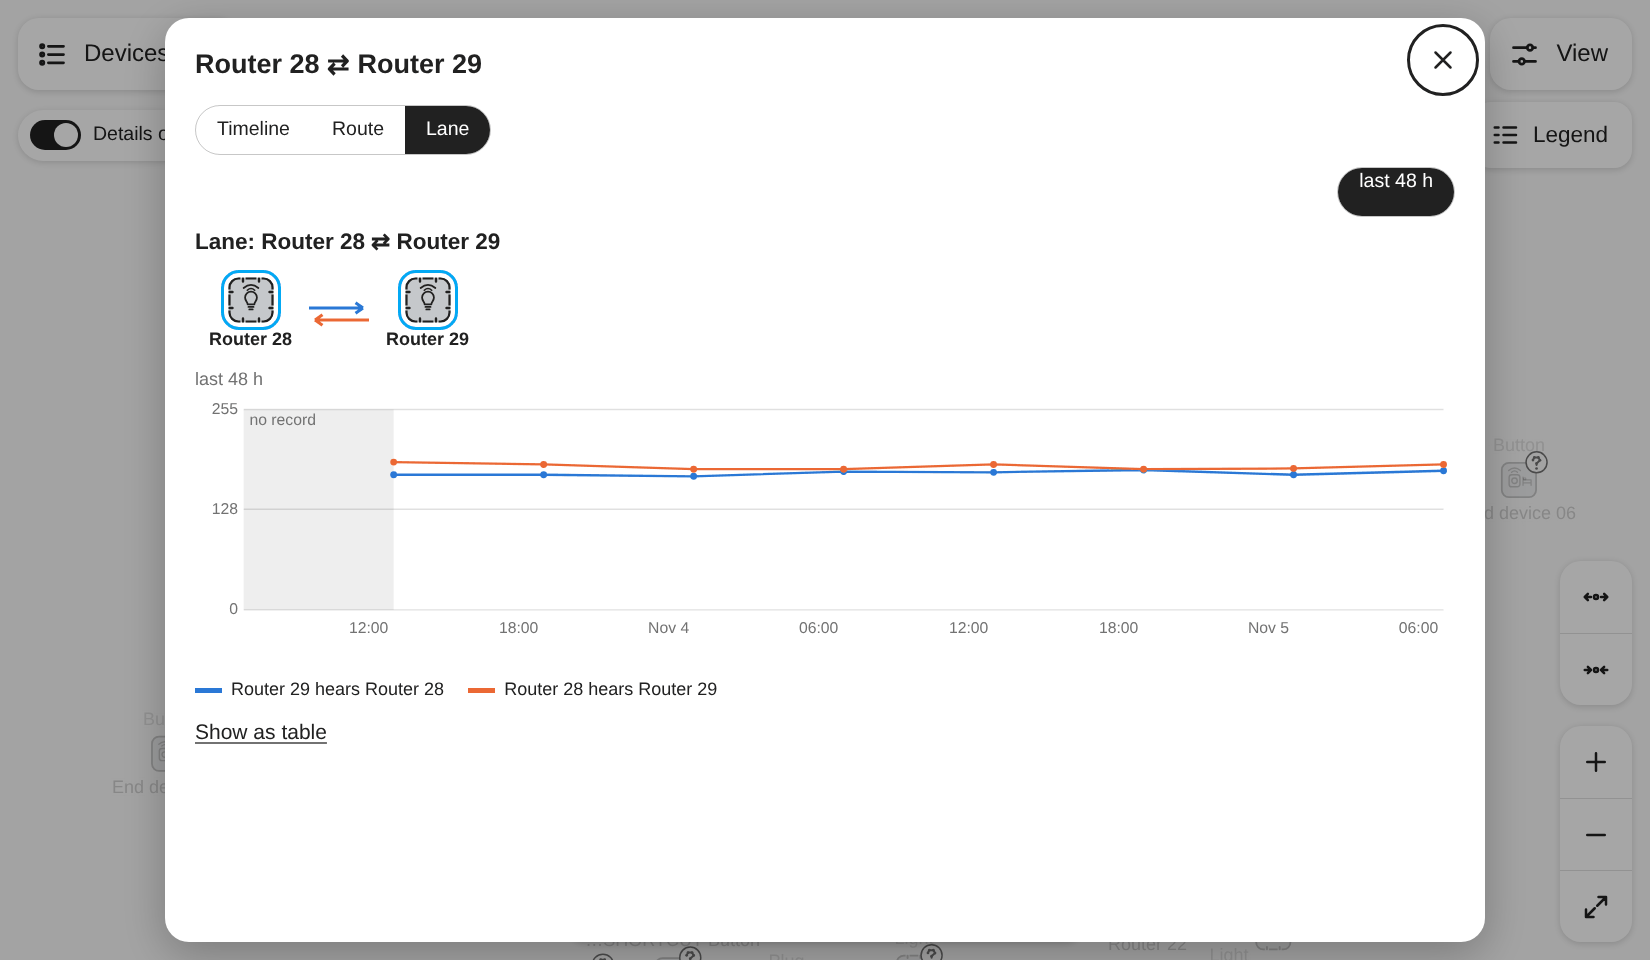
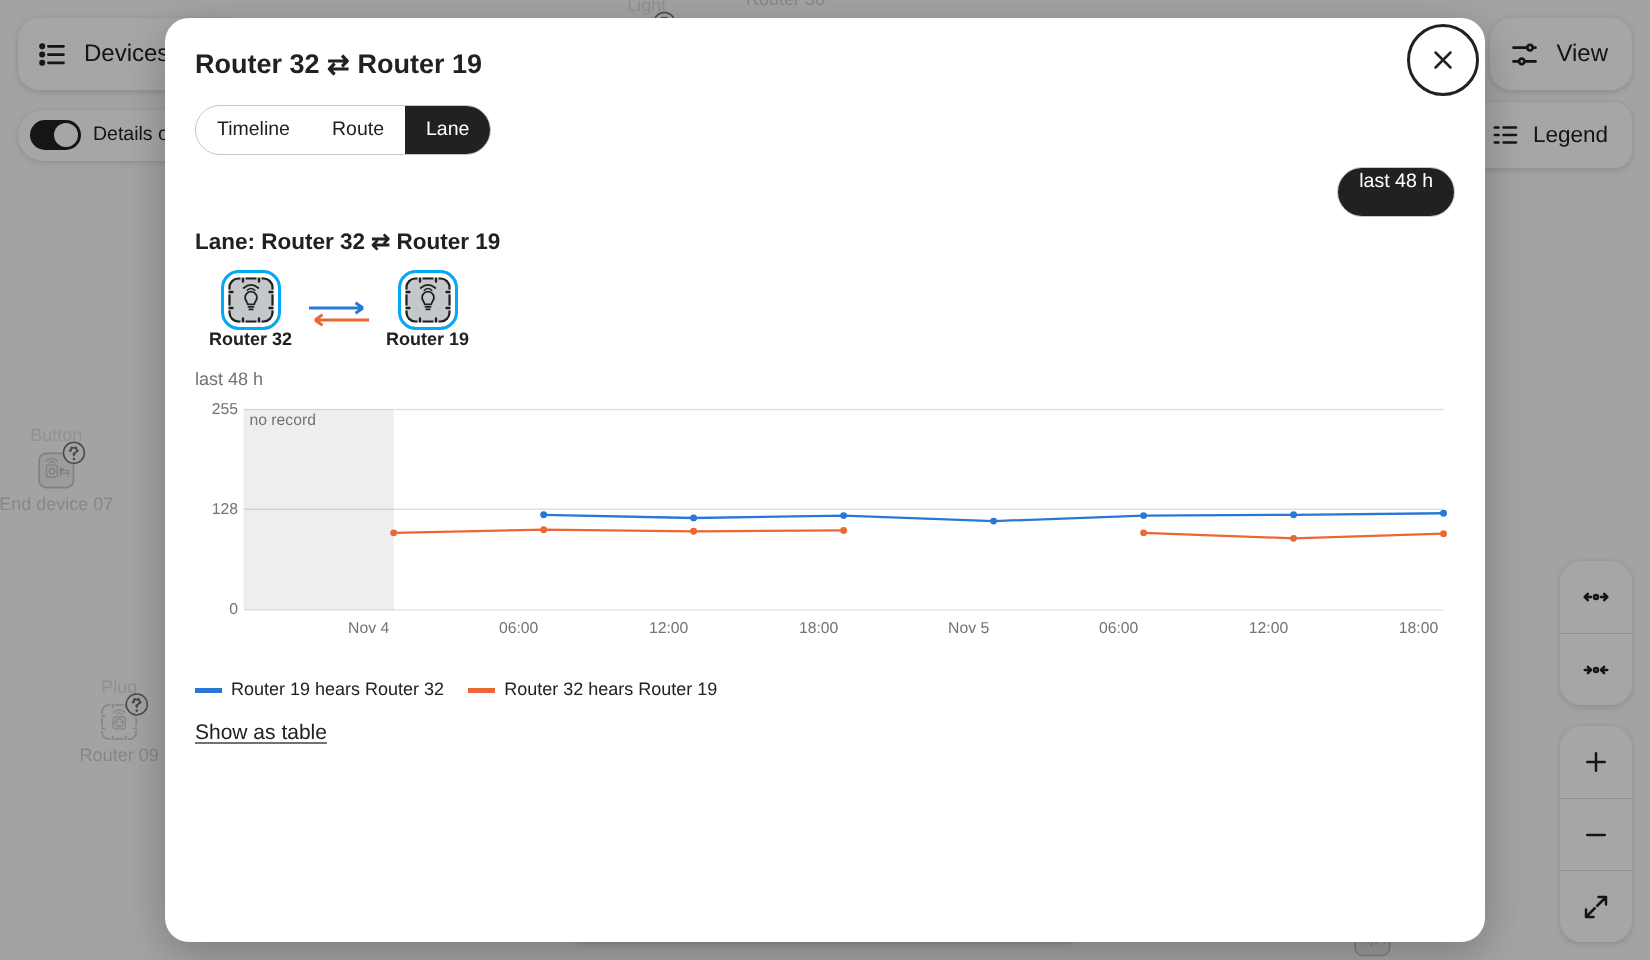
README: history images for Router 23 / Coordinator (all hops measured, 3-hop routes both ways, ghosts); factual intro sentence
The lane shows Router 32 / Router 19, one hop of that route. Intro no longer claims that dropped links vanish from the tables.

Provenance: agent claude-code/sonnet; brief readme2

diff --git a/tools/screenshots.py b/tools/screenshots.py
@@ -41,11 +41,11 @@ SHOTS = [
     ("map-light", (1280, 760), 1.5, "density=dense&colors=1"),
     ("map-dark", (1280, 760), 1.5, "density=dense&colors=1&dark=1"),
     ("path-router16", (1440, 810), 1.5, "density=dense&colors=1&select=Router%2016&left=details"),
-    # Path history window of the pair Router 28 / Router 29 on the long synthetic sample history (7 days, 6 h steps).
-    ("history-timeline", HIST, 1.5, "density=dense&colors=1&history=long&select=Router%2028&pair=Router%2029&htab=timeline&hrange=7d"),
-    ("history-route", HIST, 1.5, "density=dense&colors=1&history=long&select=Router%2028&pair=Router%2029&htab=route&hrange=7d"),
-    ("history-lane", HIST, 1.5, "density=dense&colors=1&history=long&select=Router%2028&pair=Router%2029&htab=lane&hrange=7d"),
-    ("history-route-dark", HIST, 1.5, "density=dense&colors=1&dark=1&history=long&select=Router%2028&pair=Router%2029&htab=route&hrange=7d"),
+    # Path history window of the pair Router 23 / Coordinator (the lane: its hop Router 32 / Router 19) on the long synthetic sample history (7 days, 6 h steps).
+    ("history-timeline", HIST, 1.5, "density=dense&colors=1&history=long&select=Router%2023&pair=Coordinator&htab=timeline&hrange=7d"),
+    ("history-route", HIST, 1.5, "density=dense&colors=1&history=long&select=Router%2023&pair=Coordinator&htab=route&hrange=7d"),
+    ("history-lane", HIST, 1.5, "density=dense&colors=1&history=long&select=Router%2032&pair=Router%2019&htab=lane&hrange=7d"),
+    ("history-route-dark", HIST, 1.5, "density=dense&colors=1&dark=1&history=long&select=Router%2023&pair=Coordinator&htab=route&hrange=7d"),
     ("phone-map", (390, 844), 2, "phone=1&dark=1&density=dense&colors=1"),
     ("phone-findings", (390, 844), 2, "phone=1&dark=1&colors=1&left=findings"),
     ("phone-details", (390, 844), 2, "phone=1&dark=1&density=dense&colors=1&select=Router%2016&left=details"),

diff --git a/README.md b/README.md
@@ -51,7 +51,7 @@ On a phone the panels open from the bottom: the overview, the findings, the deta
 
 ## History: what changed, and when
 
-A lamp that dropped out last night is usually gone from the tables by morning. After each of ZHA's own topology scans
+The tables only show the moment of the last scan: a link that was weak at night can look fine in the morning. After each of ZHA's own topology scans
 the integration therefore keeps a record of every link's reception, the routing tables and the end devices' parents:
 
 - **Own small files, nothing else.** Kept for 1 to 90 days (default 30; about 2.4 MB for 30 days on a network of 47
@@ -68,17 +68,17 @@ the integration therefore keeps a record of every link's reception, the routing 
 - **Thread has no walked routes:** the Matter topology holds no routing table, so Thread shows the direct link and its
   neighbours per record, not a route.
 
-![Timeline of Router 28 and Router 29 over 7 days: the route there changes from direct to four hops, the weakest hop drops from 88 % to about 35 %; the route back stays direct.](docs/images/history-timeline.png)
+![Timeline of Router 23 and the coordinator over 7 days: the route there changes twice (via Router 32, then over four hops, then three), the route back once, with the rank of the weakest hop below each route.](docs/images/history-timeline.png)
 
 <picture>
   <source media="(prefers-color-scheme: dark)" srcset="docs/images/history-route-dark.png">
-  <img src="docs/images/history-route.png" alt="Route view of Router 28 and Router 29 as a Metro-Map: the current four-hop route there with reception at each hop, the weakest one in red, the earlier direct route as a faded ghost, the direct route back below.">
+  <img src="docs/images/history-route.png" alt="Route view of Router 23 and the coordinator as a Metro-Map: the current three-hop route there and the three-hop route back, each with the reception at every hop and the weakest hop in red; earlier routes as faded dashed ghosts.">
 </picture>
 
-<sub>The same pair in the Route view: the current route there, the earlier direct one as a ghost. The history is a
+<sub>The same pair in the Route view: the current routes there and back, earlier ones as ghosts. The history is a
 synthetic series made from the sample network (`tools/history_synth.mjs`).</sub>
 
-![Lane of Router 28 and Router 29: the reception of both directions over the last 48 hours.](docs/images/history-lane.png)
+![Lane of Router 32 and Router 19, a hop of that route: the reception of both directions over the last 48 hours.](docs/images/history-lane.png)
 
 ## What it does not do
 
